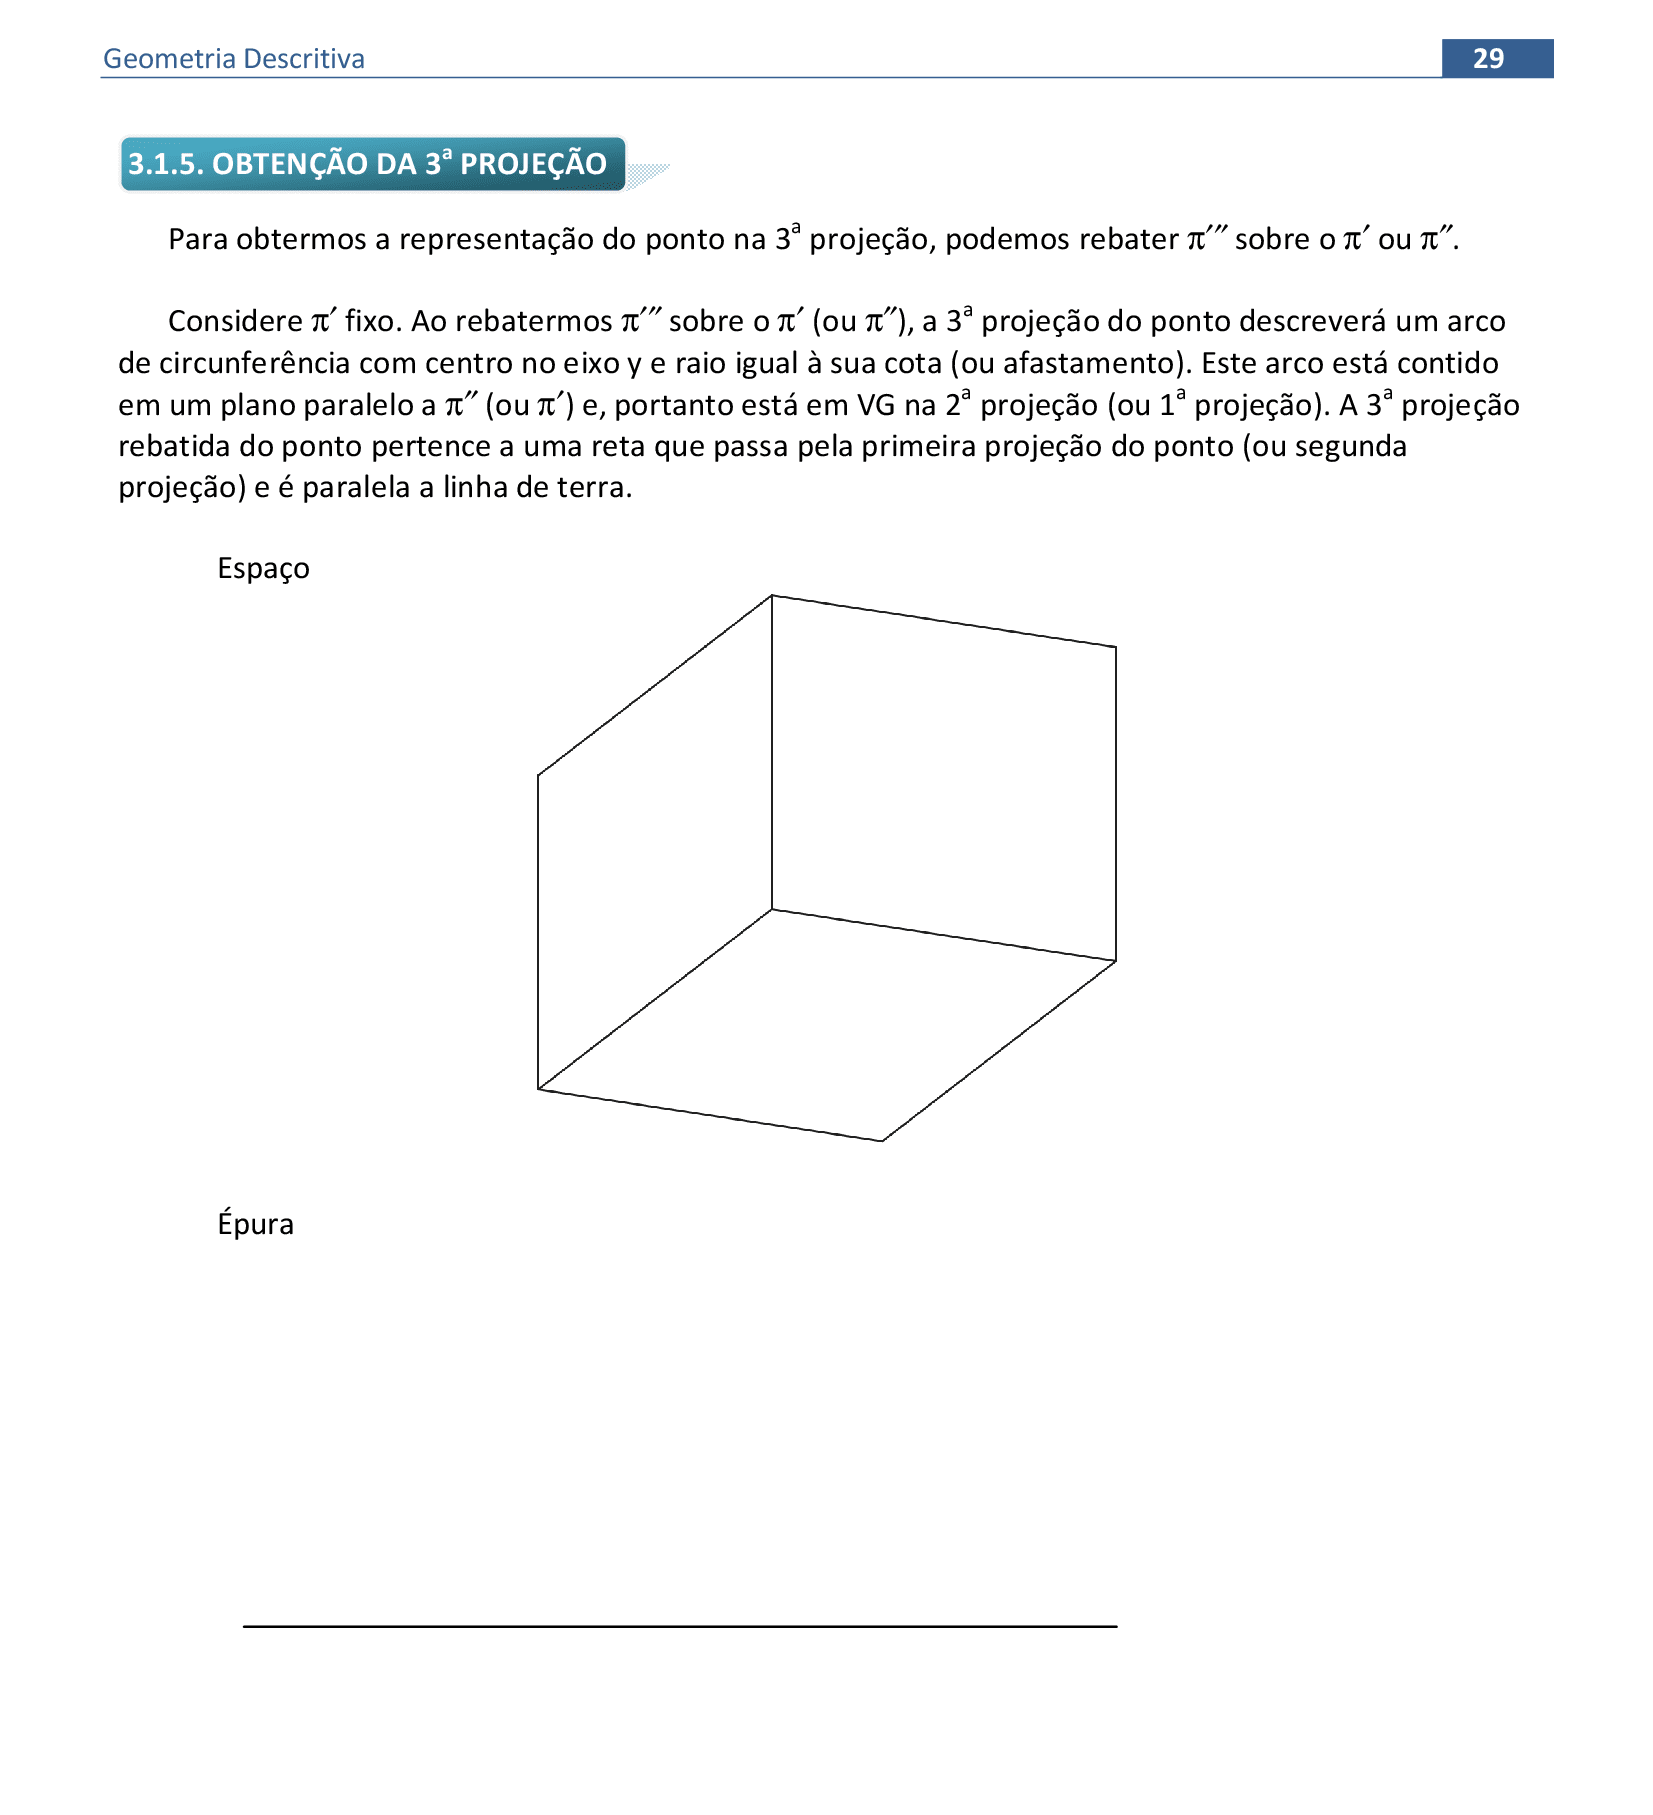
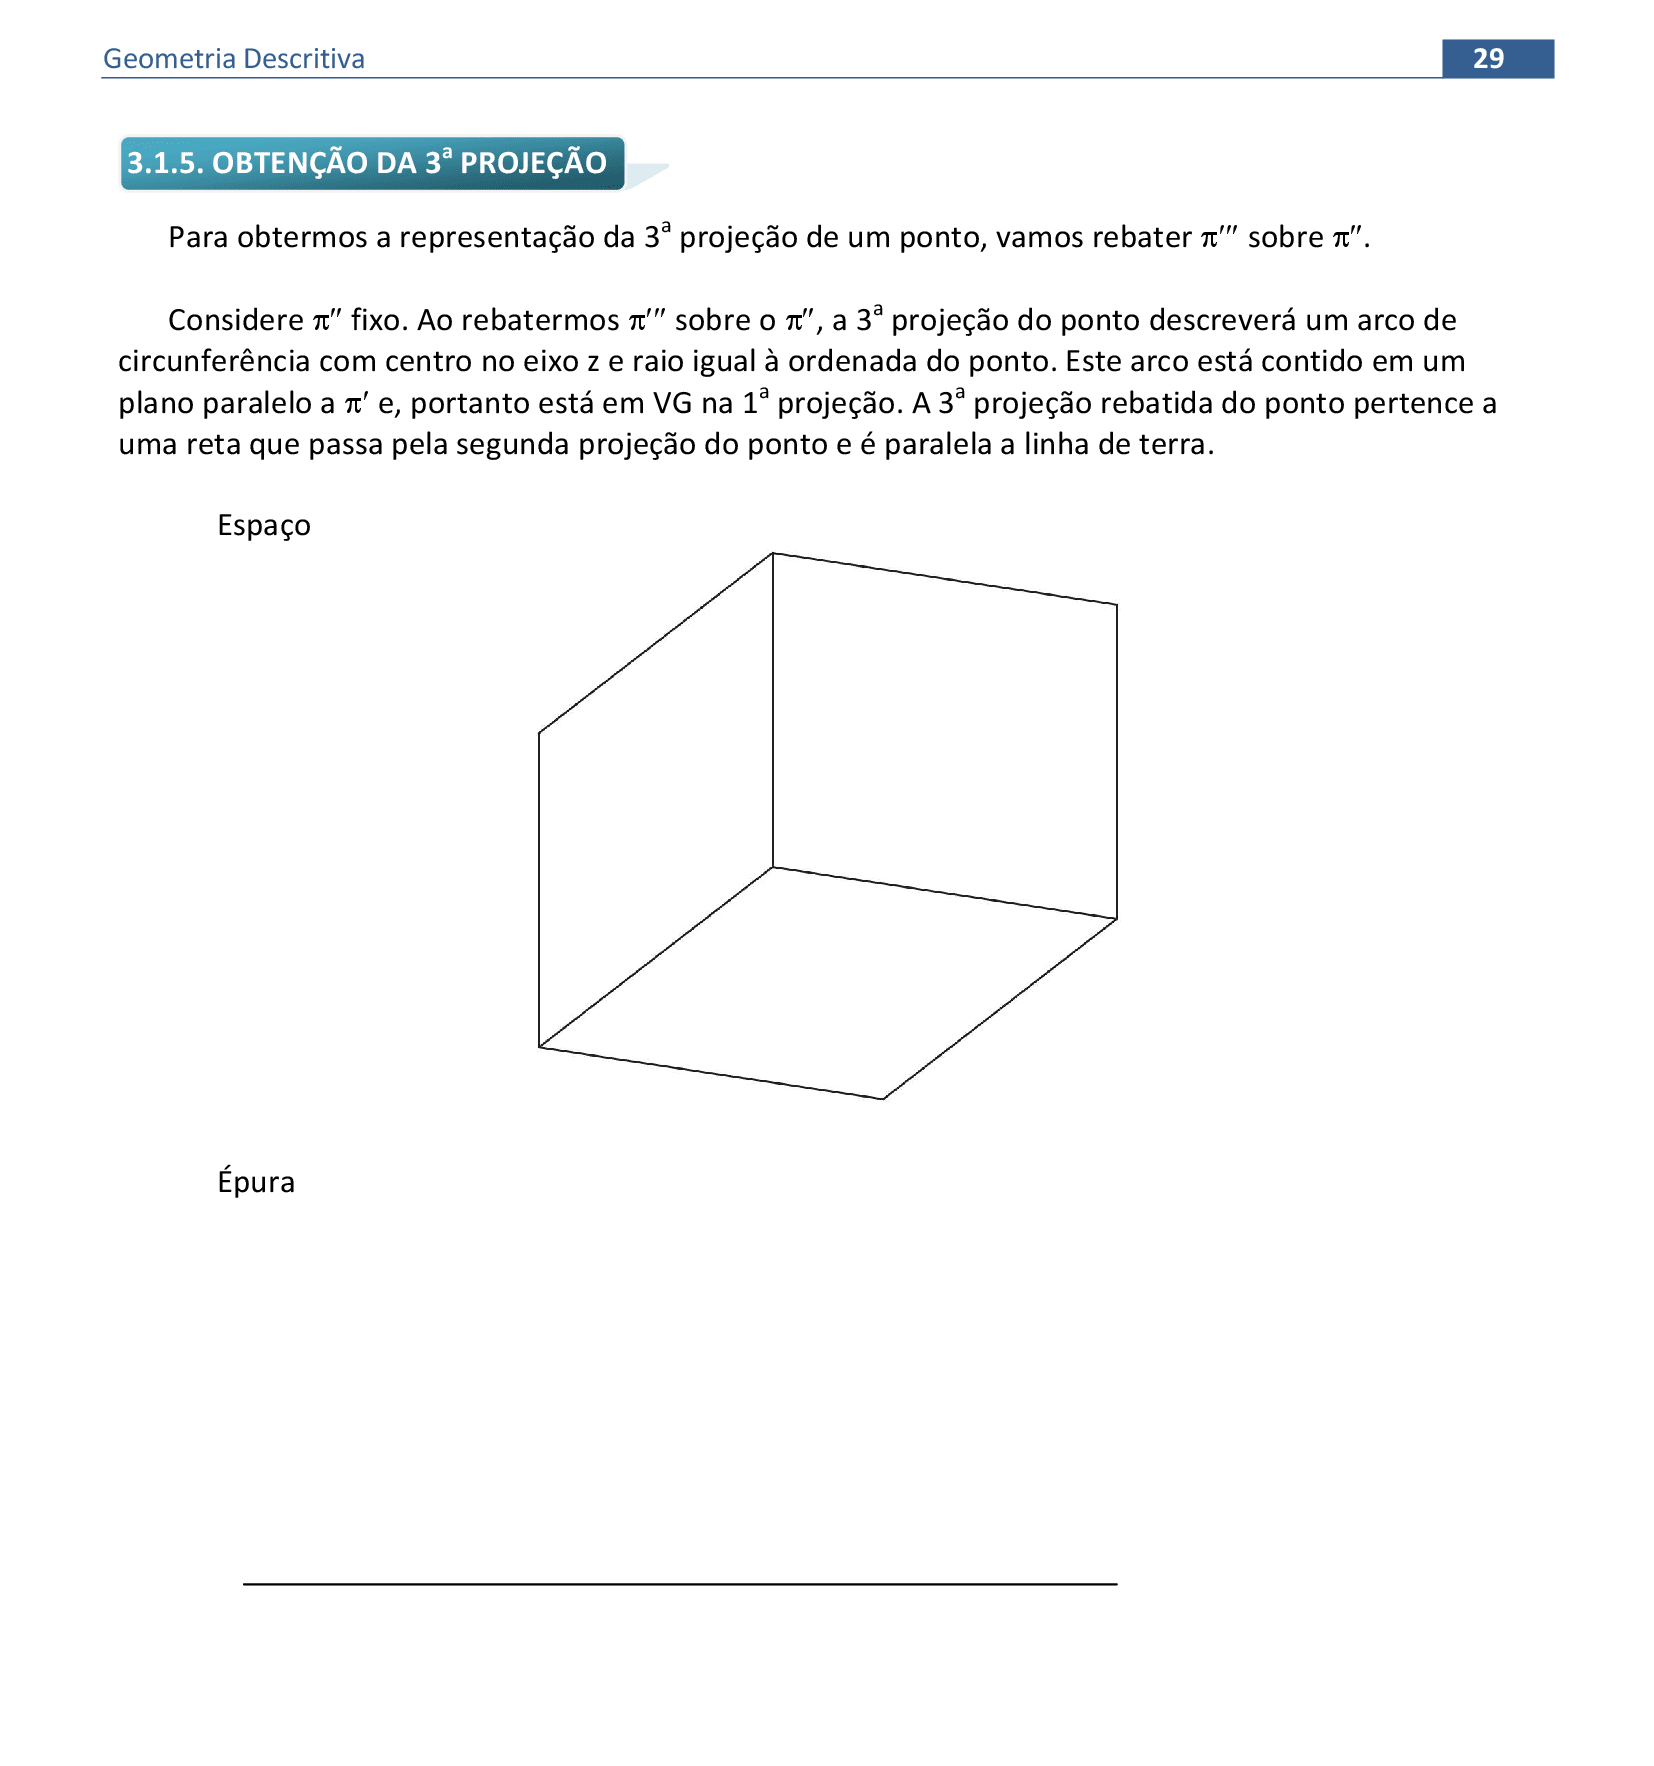
update

diff --git a/README.md b/README.md
@@ -2317,13 +2317,13 @@
            <input type="radio" id="194" name="sl">
            <label for="194"></label>
            <img src="pontos-retas/15_02_05.png"/>
-         <figcaption>Neste segmento teremos o eixo <b>z</b> com as coordenadas para cima do eixo <b>x</b> e o eixo <b>y</b> com as coordenadas positivas para baixo do eixo <b>x</b>. Agora com a ponta seca em <b>A'</b>, "pegue" a abscissa de <b>A</b> para marcarmos na representação em épura.</figcaption>
+         <figcaption>Neste segmento teremos o eixo <b>z</b> com as coordenadas positivas para cima do eixo <b>x</b> e o eixo <b>y</b> com as coordenadas positivas para baixo do eixo <b>x</b>. Agora com a ponta seca em <b>A'</b>, "pegue" a abscissa de <b>A</b> para marcarmos na representação em épura.</figcaption>
        </li>
 	   <li>
            <input type="radio" id="195" name="sl">
            <label for="195"></label>
            <img src="pontos-retas/15_02_06.png"/>
-         <figcaption>Com a ponta seca na origem <b>O</b> da épura, marque a abscissa do ponto <b>A</b> sobre o eixo <b>x</b> (linha de terra). As abscissas positivas são marcadas à direita da origem e as abscissas negativas são marcadas à esquerda de <b>O</b> Neste ponto podemos desenhar uma reta paralela aos eixos <b>y</b> e <b>z</b> ou a perpendicular ao eixo <b>x</b> usando os esquadros.</figcaption>
+         <figcaption>Com a ponta seca na origem <b>O</b> da épura, marque a abscissa do ponto <b>A</b> sobre o eixo <b>x</b> (linha de terra). As abscissas positivas são marcadas à direita de <b>O</b> e as abscissas negativas são marcadas à esquerda da origem. Podemos desenhar uma reta paralela aos eixos <b>y</b> e <b>z</b>, passando por <b>O</b>, ou a perpendicular ao eixo <b>x</b> usando os esquadros.</figcaption>
        </li>
 	   <li>
            <input type="radio" id="196" name="sl">
@@ -2440,7 +2440,7 @@
            <input type="radio" id="213" name="sl">
            <label for="213"></label>
            <img src="pontos-retas/16_01_13.png"/>
-         <figcaption>Fazendo a mesma construção com a ordenada de <b>A</b> (distância <b>xAA''</b>), encontramos a projeção <b>A'</b>: como a ordenada é positiva, marcamos esta distância para baixo da linha de terra.</figcaption>
+         <figcaption>Fazendo a mesma construção com a ordenada de <b>A</b> (distância <b>AA''</b>), encontramos a projeção <b>A'</b>: como a ordenada é positiva, marcamos esta distância para baixo da linha de terra.</figcaption>
        </li>
     </ul>
 	<img src="pontos-retas/16_01_00.png" class="fundo"/>
@@ -2467,7 +2467,7 @@
 	<p class="topop"><a href="#pontos" class="topo">voltar ao topo</a></p>
 	<img src="pontos-retas/Apost_GD_2021_00028.png"/>
 	<div class="combo"><details class="sub"><summary>&#x1f4cf; &#x1f4d0; Resolução</summary>
-  <p>Vamos representar os pontos <b>A</b>, <b>B</b> e <b>C</b> pertencentes aos planos de projeção por meio de suas projeções em perspectiva, e depois em épura. Marque a origem no desenho em épura e construa os segmentos paralelos à linha de terra que determinam a linha de terra (eixo <b>x</b>).</p>
+  <p>Vamos representar os pontos <b>A</b>, <b>B</b> e <b>C</b> pertencentes aos planos de projeção por meio de suas projeções em perspectiva, e depois em épura.</p>
   <ul class="slider">
       <li>
            <input type="radio" id="226" name="sl">
@@ -2521,7 +2521,7 @@
            <input type="radio" id="234" name="sl">
            <label for="234"></label>
            <img src="pontos-retas/17_01_09.png"/>
-         <figcaption>Deixando fixo o esquadro de 45, deslize o esquadro de 60 até chegar em <b>A''</b>. Agora você pode construir a linha de chama da de <b>A</b>.</figcaption>
+         <figcaption>Deixando fixo o esquadro de 45, deslize o esquadro de 60 até chegar em <b>A''</b>. Agora você pode construir a linha de chamada de <b>A</b>.</figcaption>
        </li>
 	   <li>
            <input type="radio" id="235" name="sl">
@@ -2552,7 +2552,7 @@
   </details></div>
 	<img src="pontos-retas/Apost_GD_2021_00028a.png"/>
 	<div class="combo"><details class="sub"><summary>&#x1f4cf; &#x1f4d0; Resolução</summary>
-  <p>Vamos representar os pontos <b>A</b>, <b>B</b> e <b>C</b> pertencentes aos eixos por meio de suas projeções em perspectiva, e depois em épura. Marque a origem no desenho em épura e construa os segmentos paralelos à linha de terra que determinam a linha de terra (eixo <b>x</b>).</p>
+  <p>Vamos representar os pontos <b>A</b>, <b>B</b> e <b>C</b> pertencentes aos eixos por meio de suas projeções em perspectiva, e depois em épura.</p>
   <ul class="slider">
       <li>
            <input type="radio" id="214" name="sl">
@@ -2564,7 +2564,7 @@
            <input type="radio" id="215" name="sl">
            <label for="215"></label>
            <img src="pontos-retas/17_02_02.png"/>
-         <figcaption>Escolhendo um ponto <b>A</b>sobre o eixo <b>x</b>, as projeções <b>A'</b> e <b>A''</b> ficam coincidentes no próprio eixo <b>x</b> e <b>A'''</b> coincide com a origem. Com a ponta seca na origem, "pegue" a medida da abscissa de <b>A</b> para marcarmos na épura.</figcaption>
+         <figcaption>Escolhendo um ponto <b>A</b> sobre o eixo <b>x</b>, as projeções <b>A'</b> e <b>A''</b> ficam coincidentes no próprio eixo <b>x</b> e <b>A'''</b> coincide com a origem. Com a ponta seca na origem, "pegue" a medida da abscissa de <b>A</b> para marcarmos na épura.</figcaption>
        </li>
        <li>
            <input type="radio" id="216" name="sl">
@@ -2606,7 +2606,7 @@
            <input type="radio" id="222" name="sl">
            <label for="222"></label>
            <img src="pontos-retas/17_02_09.png"/>
-         <figcaption>Todos os pontos do eixo <b>y</b> têm abscissas e cotas nulas. Se o ponto <b>B &isin; y</b>, então a 1&ordf; projeção de <b>B</b> pertence a <b>y</b>. Além disso, <b>B' &equiv; O</b>.</figcaption>
+         <figcaption>Todos os pontos do eixo <b>y</b> têm abscissas e cotas nulas. Se o ponto <b>B &isin; y</b>, então a 1&ordf; projeção de <b>B</b> pertence a <b>y</b>. Além disso, <b>B'' &equiv; O</b>.</figcaption>
        </li>
 	   <li>
            <input type="radio" id="223" name="sl">
